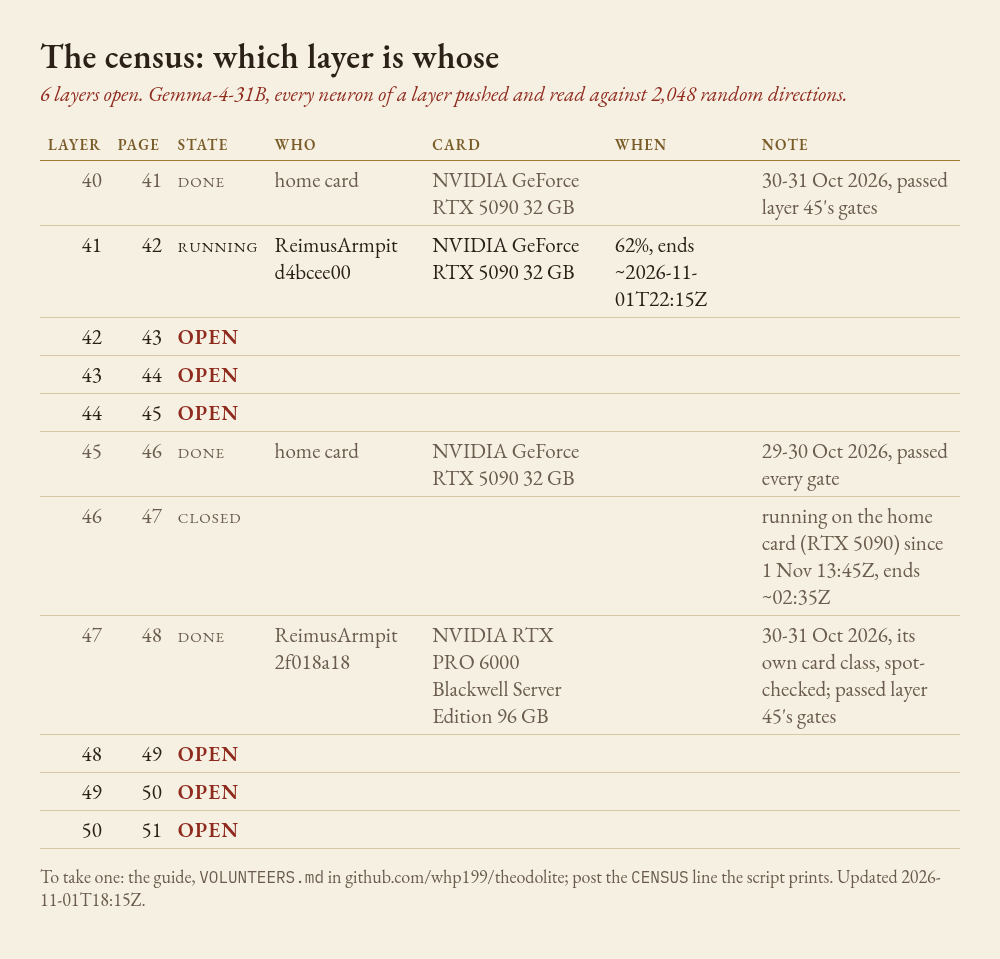
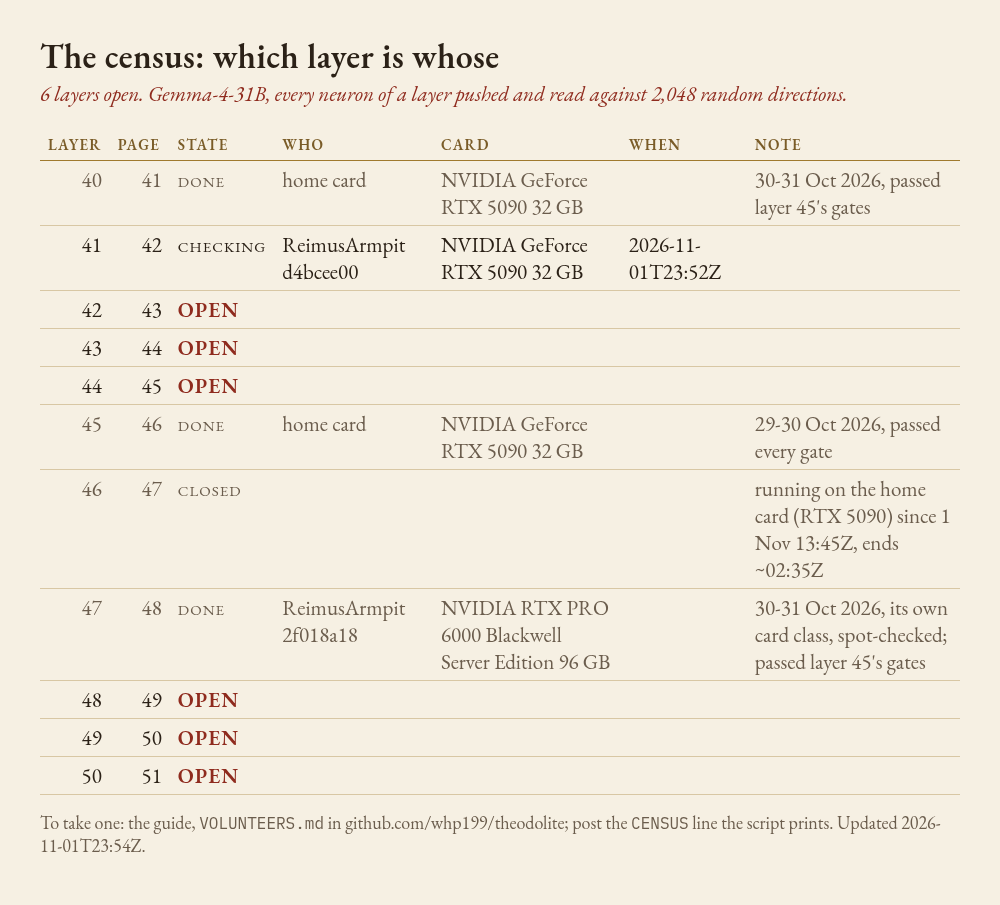
Board: layer 41 sent home by ReimusArmpit (bundle 8a8d269a, 532 MB) and checked on the CPU: whole, the kit's settings, the home card's bits
Its spot chunks (155, 172, 498, 647, 720 of 737) wait for the card, which layer 46 holds until about 02:30Z.

diff --git a/volunteers/BOARD.md b/volunteers/BOARD.md
@@ -5,7 +5,7 @@ Kit 1 (census-kit-1). How to take a layer: [VOLUNTEERS.md](https://github.com/wh
 | Layer | Page | State | Who | Card | When | Note |
 |---:|---:|---|---|---|---|---|
 | 40 | 41 | done | home card | NVIDIA GeForce RTX 5090 32 GB |  | 30-31 Oct 2026, passed layer 45's gates |
-| 41 | 42 | running | ReimusArmpit d4bcee00 | NVIDIA GeForce RTX 5090 32 GB | 62%, ends ~2026-11-01T22:15Z |  |
+| 41 | 42 | checking | ReimusArmpit d4bcee00 | NVIDIA GeForce RTX 5090 32 GB | 2026-11-01T23:52Z |  |
 | 42 | 43 | OPEN |  |  |  |  |
 | 43 | 44 | OPEN |  |  |  |  |
 | 44 | 45 | OPEN |  |  |  |  |
@@ -20,4 +20,4 @@ Judged:
 
 - L47 ReimusArmpit 2f018a18: accepted (30-31 Oct 2026, its own card class, spot-checked passed layer 45s gates)
 
-Holds: 36 h after RESERVE to START; then the run's end time (from PROGRESS) plus 24 h; at most 10 days in all. Updated 2026-11-01T18:15Z.
+Holds: 36 h after RESERVE to START; then the run's end time (from PROGRESS) plus 24 h; at most 10 days in all. Updated 2026-11-01T23:54Z.
